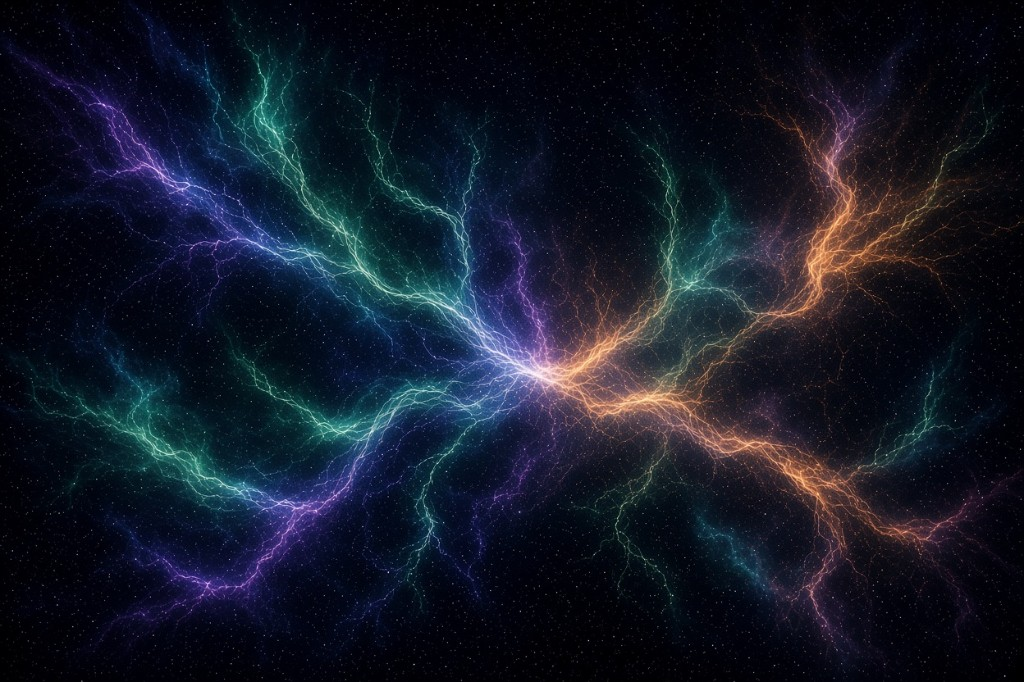
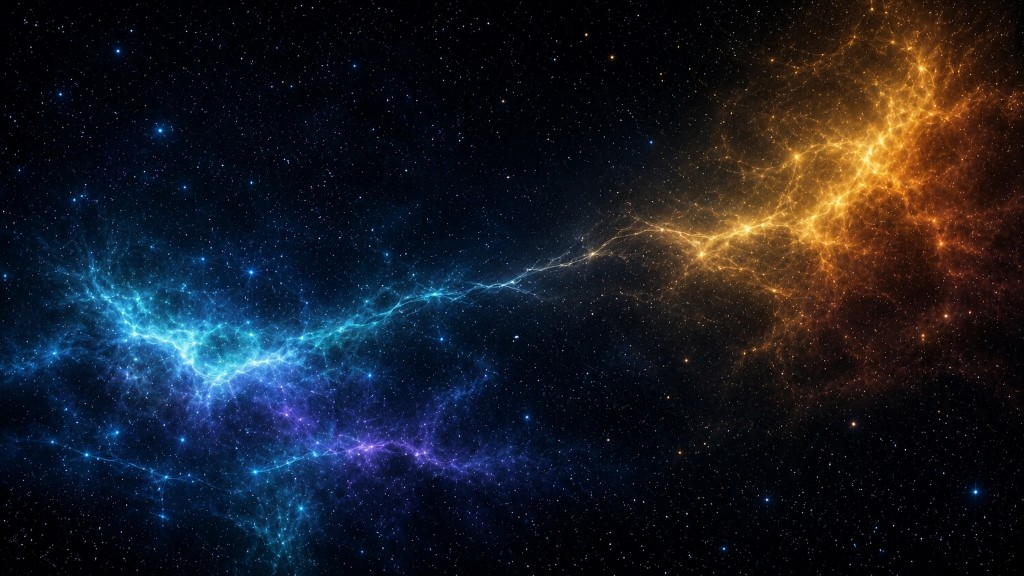
Give /aleph a nebula backdrop, a hard SpaceX-style wordmark, and a Cloudflare-style ticket copy table.

diff --git a/src/components/aleph/aleph-ticket-copy.tsx b/src/components/aleph/aleph-ticket-copy.tsx
@@ -1,11 +1,28 @@
 "use client";
 
 import { useState } from "react";
-import { Check, Copy } from "lucide-react";
 import { createTranslator } from "@/lib/i18n/messages";
-import { ALEPH_TICKET_COMMAND } from "@/lib/aleph-ticket";
+import { ALEPH_PUBLIC_AGENT_SIG, ALEPH_TICKET_COMMAND } from "@/lib/aleph-ticket";
 
 const t = createTranslator("en");
+
+function SortGlyph() {
+  return (
+    <svg viewBox="0 0 8 12" className="h-3 w-2 shrink-0 text-[#9aa0a6]" aria-hidden>
+      <path d="M4 0.6 L7.2 4.6 H0.8 Z" fill="currentColor" />
+      <path d="M4 11.4 L7.2 7.4 H0.8 Z" fill="currentColor" />
+    </svg>
+  );
+}
+
+function HeaderCell({ label }: { label: string }) {
+  return (
+    <div className="flex items-center gap-1 whitespace-nowrap text-[12px] font-normal text-[#6b7280]">
+      <span>{label}</span>
+      <SortGlyph />
+    </div>
+  );
+}
 
 export function AlephTicketCopy() {
   const [copied, setCopied] = useState(false);
@@ -28,32 +45,87 @@ export function AlephTicketCopy() {
     window.setTimeout(() => setCopied(false), 1800);
   }
 
+  const copyLabel = copied ? t("aleph.copied") : t("aleph.copy");
+
   return (
-    <div className="mx-auto mt-14 flex w-full max-w-xl flex-col items-center gap-4">
-      <div
-        role="button"
-        tabIndex={0}
-        onClick={() => void copyTicket()}
-        onKeyDown={(event) => {
-          if (event.key === "Enter" || event.key === " ") {
-            event.preventDefault();
-            void copyTicket();
-          }
-        }}
-        className="w-full cursor-pointer rounded-xl border border-white/20 bg-black/60 px-5 py-4 text-center shadow-[0_8px_40px_rgba(0,0,0,0.45)] backdrop-blur-md"
-      >
-        <code className="block select-all whitespace-nowrap overflow-x-auto font-mono text-sm leading-relaxed text-white sm:text-lg">
-          {ALEPH_TICKET_COMMAND}
-        </code>
+    <div className="mx-auto mt-12 w-full max-w-5xl overflow-hidden rounded-lg border border-[#e8e8e8] bg-white font-[system-ui,-apple-system,BlinkMacSystemFont,'Segoe_UI',sans-serif] text-[#1d1d1f] shadow-[0_12px_40px_rgba(0,0,0,0.28)]">
+      <p className="px-5 py-3 text-[13px] leading-5 text-[#6b7280]">{t("aleph.tableCaption")}</p>
+
+      <div className="space-y-3 border-t border-[#ececec] px-5 py-4 sm:hidden">
+        <div>
+          <div className="text-[11px] text-[#6b7280]">{t("aleph.tableName")}</div>
+          <div className="break-all font-medium text-[#111827]">$env:M2M_AGENT_SIG</div>
+        </div>
+        <div className="grid grid-cols-2 gap-3">
+          <div>
+            <div className="text-[11px] text-[#6b7280]">{t("aleph.tableType")}</div>
+            <div className="text-[#111827]">{t("aleph.tableTypeValue")}</div>
+          </div>
+          <div>
+            <div className="text-[11px] text-[#6b7280]">{t("aleph.tableTtl")}</div>
+            <div className="text-[#111827]">{t("aleph.tableTtlValue")}</div>
+          </div>
+        </div>
+        <div>
+          <div className="text-[11px] text-[#6b7280]">{t("aleph.tableContent")}</div>
+          <div className="break-all text-[#111827]">{ALEPH_PUBLIC_AGENT_SIG}</div>
+        </div>
+        <button
+          type="button"
+          onClick={() => void copyTicket()}
+          className="text-[13px] text-[#6b7280] hover:underline"
+        >
+          {copyLabel}
+        </button>
       </div>
-      <button
-        type="button"
-        onClick={() => void copyTicket()}
-        className="inline-flex items-center justify-center gap-2 rounded-full bg-white px-8 py-3.5 text-base font-semibold text-black transition hover:bg-white/90 active:scale-[0.98]"
-      >
-        {copied ? <Check className="h-5 w-5" /> : <Copy className="h-5 w-5" />}
-        {copied ? t("aleph.copied") : t("aleph.copy")}
-      </button>
+
+      <div className="hidden overflow-x-auto sm:block">
+        <div role="table" className="min-w-[860px] border-t border-[#ececec] text-[13px] leading-5">
+          <div
+            role="row"
+            className="grid grid-cols-[32px_minmax(220px,1.5fr)_72px_minmax(200px,1.4fr)_72px_72px] items-center gap-3 border-b border-[#ececec] px-5 py-2.5"
+          >
+            <div className="flex h-4 w-4 items-center justify-center rounded-[3px] border border-[#c5c9d0] bg-white" />
+            <HeaderCell label={t("aleph.tableName")} />
+            <HeaderCell label={t("aleph.tableType")} />
+            <HeaderCell label={t("aleph.tableContent")} />
+            <HeaderCell label={t("aleph.tableTtl")} />
+            <div />
+          </div>
+          <div
+            role="button"
+            tabIndex={0}
+            onClick={() => void copyTicket()}
+            onKeyDown={(event) => {
+              if (event.key === "Enter" || event.key === " ") {
+                event.preventDefault();
+                void copyTicket();
+              }
+            }}
+            className="grid cursor-pointer grid-cols-[32px_minmax(220px,1.5fr)_72px_minmax(200px,1.4fr)_72px_72px] items-center gap-3 px-5 py-3 text-left transition-colors hover:bg-[#f7f7f8]"
+          >
+            <div className="flex h-4 w-4 items-center justify-center rounded-[3px] border border-[#c5c9d0] bg-white" />
+            <div className="truncate font-medium text-[#111827]" title={ALEPH_TICKET_COMMAND}>
+              $env:M2M_AGENT_SIG
+            </div>
+            <div className="text-[#374151]">{t("aleph.tableTypeValue")}</div>
+            <div className="truncate text-[#111827]" title={ALEPH_PUBLIC_AGENT_SIG}>
+              {ALEPH_PUBLIC_AGENT_SIG}
+            </div>
+            <div className="text-[#374151]">{t("aleph.tableTtlValue")}</div>
+            <button
+              type="button"
+              onClick={(event) => {
+                event.stopPropagation();
+                void copyTicket();
+              }}
+              className="justify-self-start whitespace-nowrap text-[13px] text-[#6b7280] hover:underline"
+            >
+              {copyLabel}
+            </button>
+          </div>
+        </div>
+      </div>
     </div>
   );
 }

diff --git a/src/app/aleph/page.tsx b/src/app/aleph/page.tsx
@@ -1,7 +1,14 @@
 import type { Metadata } from "next";
+import { Orbitron } from "next/font/google";
 import Image from "next/image";
 import { AlephTicketCopy } from "@/components/aleph/aleph-ticket-copy";
 import { ALEPH_TITLE } from "@/lib/aleph-ticket";
+
+const alephWordmark = Orbitron({
+  subsets: ["latin"],
+  weight: ["400", "500"],
+  display: "swap",
+});
 
 export const metadata: Metadata = {
   title: ALEPH_TITLE,
@@ -10,7 +17,7 @@ export const metadata: Metadata = {
 
 export default function AlephTicketPage() {
   return (
-    <main className="fixed inset-0 z-[100] overflow-hidden bg-black text-white [font-family:var(--font-geist-sans),system-ui,sans-serif]">
+    <main className="fixed inset-0 z-[100] overflow-hidden bg-black text-white">
       <Image
         src="/images/aleph-bg.jpg"
         alt=""
@@ -19,14 +26,15 @@ export default function AlephTicketPage() {
         sizes="100vw"
         className="object-cover"
       />
-      <div className="absolute inset-0 bg-black/20" />
-      <div className="relative z-10 flex min-h-dvh flex-col items-center justify-center px-6 py-16">
-        <h1 className="flex flex-wrap items-baseline justify-center gap-x-5 gap-y-2 text-center font-folk-display">
-          <span className="text-6xl font-semibold tracking-tight sm:text-8xl md:text-9xl">MoCoMo</span>
-          <span className="translate-y-[-0.15em] text-2xl font-light tracking-[0.4em] text-white/65 sm:text-3xl md:text-4xl">
-            X
-          </span>
-          <span className="text-6xl font-semibold tracking-tight sm:text-8xl md:text-9xl">Aleph</span>
+      <div className="absolute inset-0 bg-black/25" />
+      <div className="relative z-10 flex min-h-dvh flex-col items-center justify-center px-4 py-16 sm:px-6">
+        <h1
+          className={`${alephWordmark.className} flex flex-wrap items-center justify-center gap-x-5 gap-y-3 text-center font-normal uppercase sm:gap-x-7`}
+          style={{ fontFamily: alephWordmark.style.fontFamily, fontWeight: 400 }}
+        >
+          <span className="text-[clamp(2.1rem,7vw,4.8rem)] tracking-[0.14em]">MoCoMo</span>
+          <span className="text-[clamp(1.5rem,5vw,3.1rem)] tracking-[0.22em] text-white/80">X</span>
+          <span className="text-[clamp(2.1rem,7vw,4.8rem)] tracking-[0.14em]">Aleph</span>
         </h1>
         <AlephTicketCopy />
       </div>
